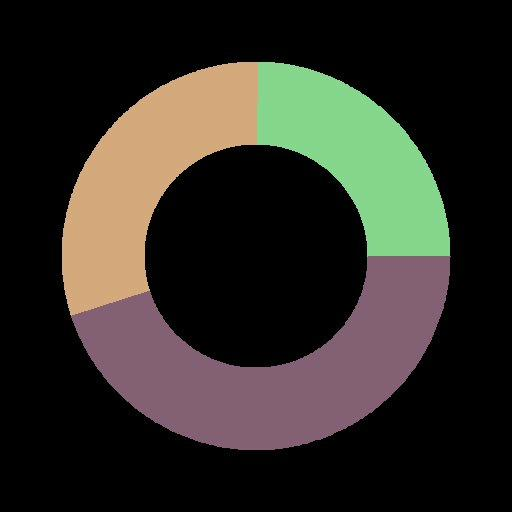
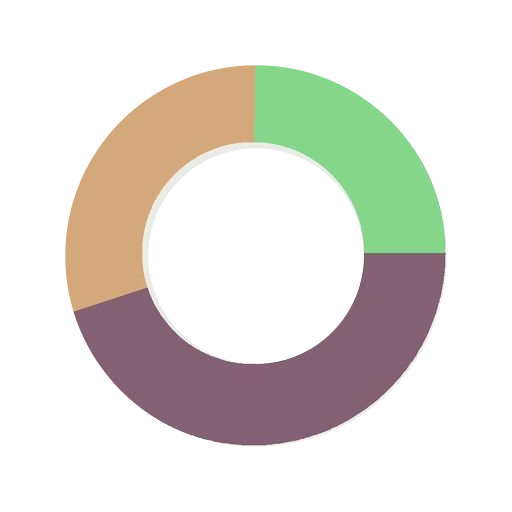
Replace marktransparent512 with true-transparent ring
The splash, header, login, and signup screens all use
marktransparent512.png as a floating logo. The file was actually a JPEG
(no alpha channel) with a black/white background — never truly
transparent, so the donut showed odd edges on top of the splash gradient.

New file: 512x512 PNG with the donut ring isolated by a stroke-circle
alpha mask. Center hole and outer area are both transparent (alpha=0);
ring colors preserved. Looks clean on any background.

build-icons.js now generates this file too — reproducible from
icon1024.png in one command.

diff --git a/scripts/build-icons.js b/scripts/build-icons.js
@@ -22,6 +22,8 @@ const SOURCE = path.join(PUBLIC, 'icon1024.png')
 
 // Donut bbox inside icon1024.png (measured)
 const SRC = { left: 123, top: 123, width: 779, height: 779 }
+// Donut ring geometry inside icon1024.png — center at (518, 518), radii in source pixels.
+const RING = { srcSize: 1036, outerR: 386, innerR: 218 }
 
 // Brand cream background (sampled from the existing rounded-rect interior)
 const BG = { r: 234, g: 235, b: 230, alpha: 1 }
@@ -50,11 +52,42 @@ async function buildIcon(targetSize, outName, fillRatio = FILL_RATIO) {
   console.log(`wrote ${outName} (${targetSize}x${targetSize}, donut ${donutPx}px)`)
 }
 
+// Build a transparent-background PNG of just the donut ring (no cream center, no cream
+// outside). Used by the splash, header, and login/signup screens — overlays on any
+// background color.
+async function buildMark(targetSize, outName) {
+  const scale = targetSize / RING.srcSize
+  const outerR = RING.outerR * scale
+  const innerR = RING.innerR * scale
+  const cx = targetSize / 2
+  const cy = targetSize / 2
+  const midR = (outerR + innerR) / 2
+  const strokeW = outerR - innerR
+
+  // Ring-only alpha mask: stroke a circle at mid-radius with thickness = ring width.
+  // Inside the inner radius and outside the outer radius stays transparent.
+  const maskSvg = Buffer.from(`<svg width="${targetSize}" height="${targetSize}" xmlns="http://www.w3.org/2000/svg">
+    <circle cx="${cx}" cy="${cy}" r="${midR}" fill="none" stroke="white" stroke-width="${strokeW}"/>
+  </svg>`)
+
+  const donut = await sharp(SOURCE)
+    .resize(targetSize, targetSize, { fit: 'fill', kernel: 'lanczos3' })
+    .ensureAlpha()
+    .toBuffer()
+
+  await sharp(donut)
+    .composite([{ input: maskSvg, blend: 'dest-in' }])
+    .png({ compressionLevel: 9 })
+    .toFile(path.join(PUBLIC, outName))
+  console.log(`wrote ${outName} (${targetSize}x${targetSize}, ring ${innerR.toFixed(0)}..${outerR.toFixed(0)}px)`)
+}
+
 async function main() {
   await buildIcon(180, 'icon180appletouch.png')
   await buildIcon(192, 'icon192.png')
   await buildIcon(512, 'icon512.png')
   await buildIcon(512, 'icon512maskable.png', MASKABLE_RATIO)
+  await buildMark(512, 'marktransparent512.png')
 }
 
 main().catch(err => { console.error(err); process.exit(1) })
